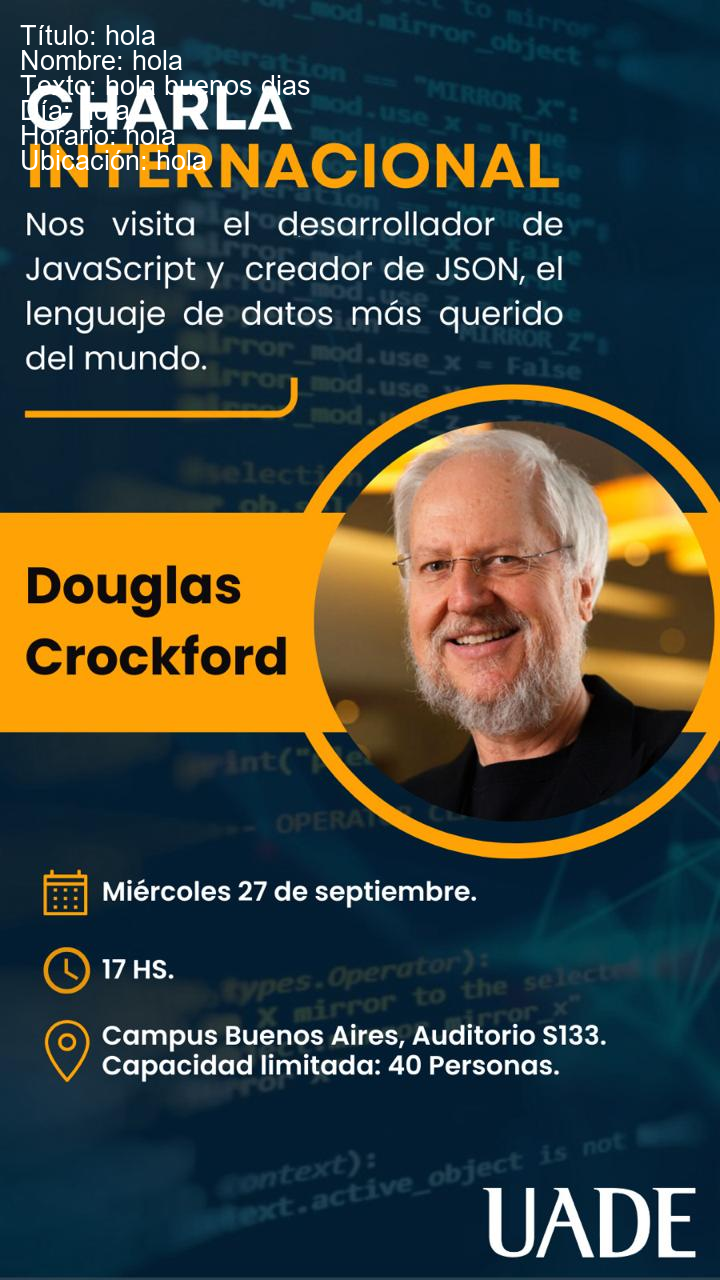
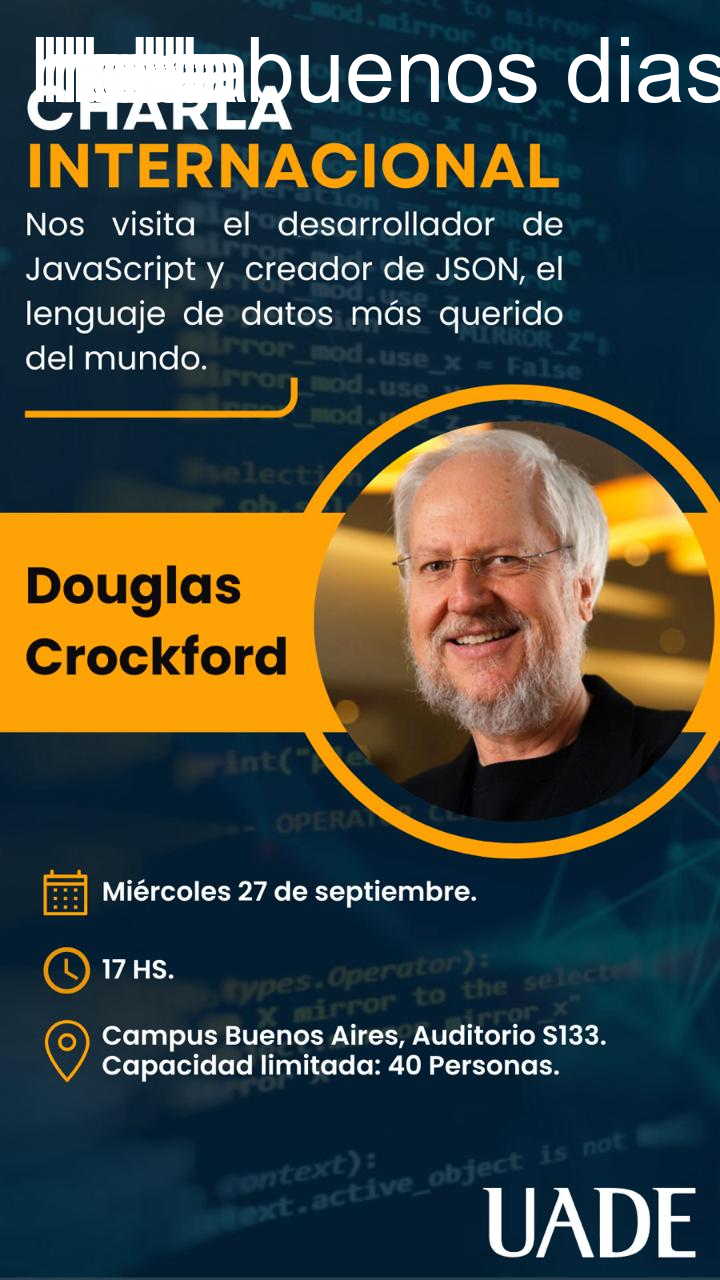
modulamiento de textos

Changed region(s): [[0.0306, 0.0, 0.7639, 0.1562], [0.7944, 0.0312, 1.0, 0.0938]]

diff --git a/app.py b/app.py
@@ -49,26 +49,20 @@ def agregar_texto_a_foto(titulo, nombre, imagen_cara, texto, dia, horario, ubica
     font_size = 18  # Tamaño de fuente deseado
     font = ImageFont.truetype("arial.ttf", font_size)
 
-    posicion_x = 0
-    posicion_y = 0
-
-    # Aplicar escalado y movimiento a los textos
-    posicion_x += posicion_texto[0]
-    posicion_y += posicion_texto[1]
     font_size_texto = int(font_size * escala_texto)
     font_texto = ImageFont.truetype("arial.ttf", font_size_texto)
 
-    draw.text((posicion_x, posicion_y), f"Título: {titulo}", font=font_texto, fill="white")
-    posicion_y += 25
-    draw.text((posicion_x, posicion_y), f"Nombre: {nombre}", font=font_texto, fill="white")
-    posicion_y += 25
-    draw.text((posicion_x, posicion_y), f"Texto: {texto}", font=font_texto, fill="white")
-    posicion_y += 25
-    draw.text((posicion_x, posicion_y), f"Día: {dia}", font=font_texto, fill="white")
-    posicion_y += 25
-    draw.text((posicion_x, posicion_y), f"Horario: {horario}", font=font_texto, fill="white")
-    posicion_y += 25
-    draw.text((posicion_x, posicion_y), f"Ubicación: {ubicacion}", font=font_texto, fill="white")
+    draw.text((30, 20), titulo, font=font_texto, fill="white")
+    
+    draw.text((40, 20), nombre, font=font_texto, fill="white")
+    
+    draw.text((50, 20), texto, font=font_texto, fill="white")
+    
+    draw.text((60, 20), dia, font=font_texto, fill="white")
+    
+    draw.text((70, 20),  horario, font=font_texto, fill="white")
+    
+    draw.text((80, 20), ubicacion, font=font_texto, fill="white")
 
     if imagen_cara:
         imagen_cara_path = os.path.join("public", imagen_cara)
@@ -84,7 +78,7 @@ def agregar_texto_a_foto(titulo, nombre, imagen_cara, texto, dia, horario, ubica
             imagen_cara_circular = recortar_circulo(imagen_cara)
 
             # Pegar la imagen circular en el fondo
-            posición_final = (posicion_x + posicion_cara[0], posicion_y + posicion_cara[1])
+            posición_final = (20 + posicion_cara[0], 20 + posicion_cara[1])
             fondo.paste(imagen_cara_circular, posición_final, imagen_cara_circular)
 
         except FileNotFoundError as e:
@@ -104,12 +98,8 @@ def main():
         posicion_cara = (291, 272)  # Cambia la posición de la imagen de la cara
         escala_cara = 0.5  # Cambia la escala de la imagen de la cara
         posicion_texto = (20, 20)  # Cambia la posición del texto
-        escala_texto = 1.5  # Cambia la escala del texto
+        escala_texto = 5  # Cambia la escala del texto
         agregar_texto_a_foto(titulos[i], nombres[i], imagenes_cara[i], textos[i], dias[i], horarios[i], ubicaciones[i], fondo_path, salida_path, posicion_cara, escala_cara, posicion_texto, escala_texto)
 
 if __name__ == "__main__":
     main()
-    
-    
-    
-    
